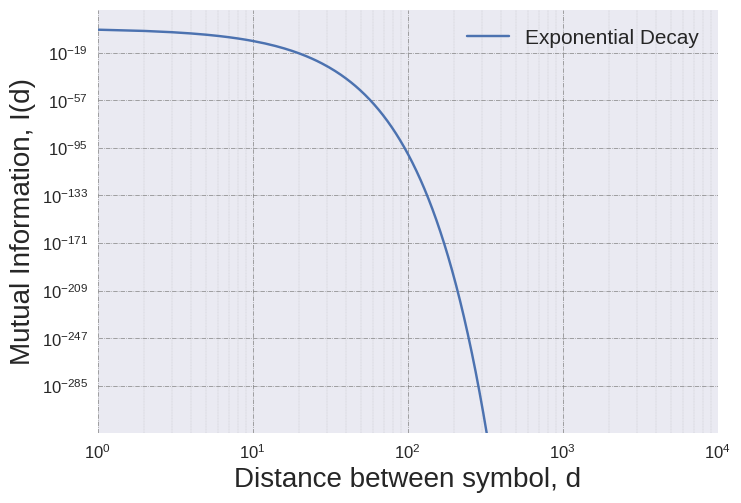
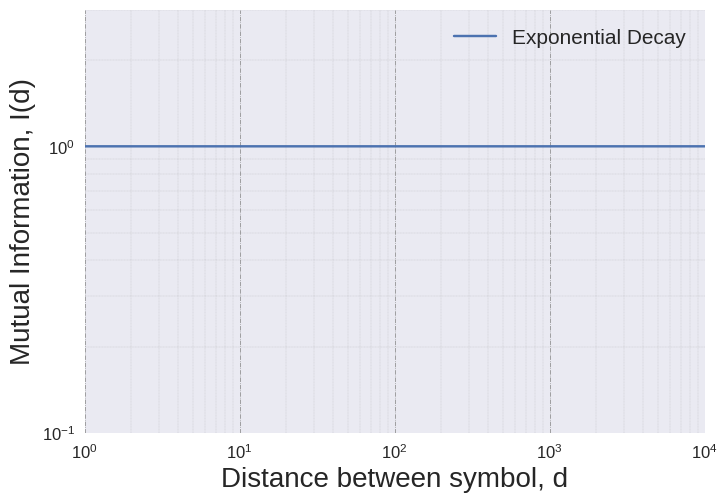
Up

diff --git a/paper_related/framework.py b/paper_related/framework.py
@@ -29,8 +29,8 @@ with plt.style.context(('seaborn')):
 
     ##########################################################################################################################
 
-    a = 2
-    b = 0.1
+    a = 1
+    b = 1
     y = a*pow(b,x)
     p3 = plt.loglog(x, y, label="Exponential Decay")
 
